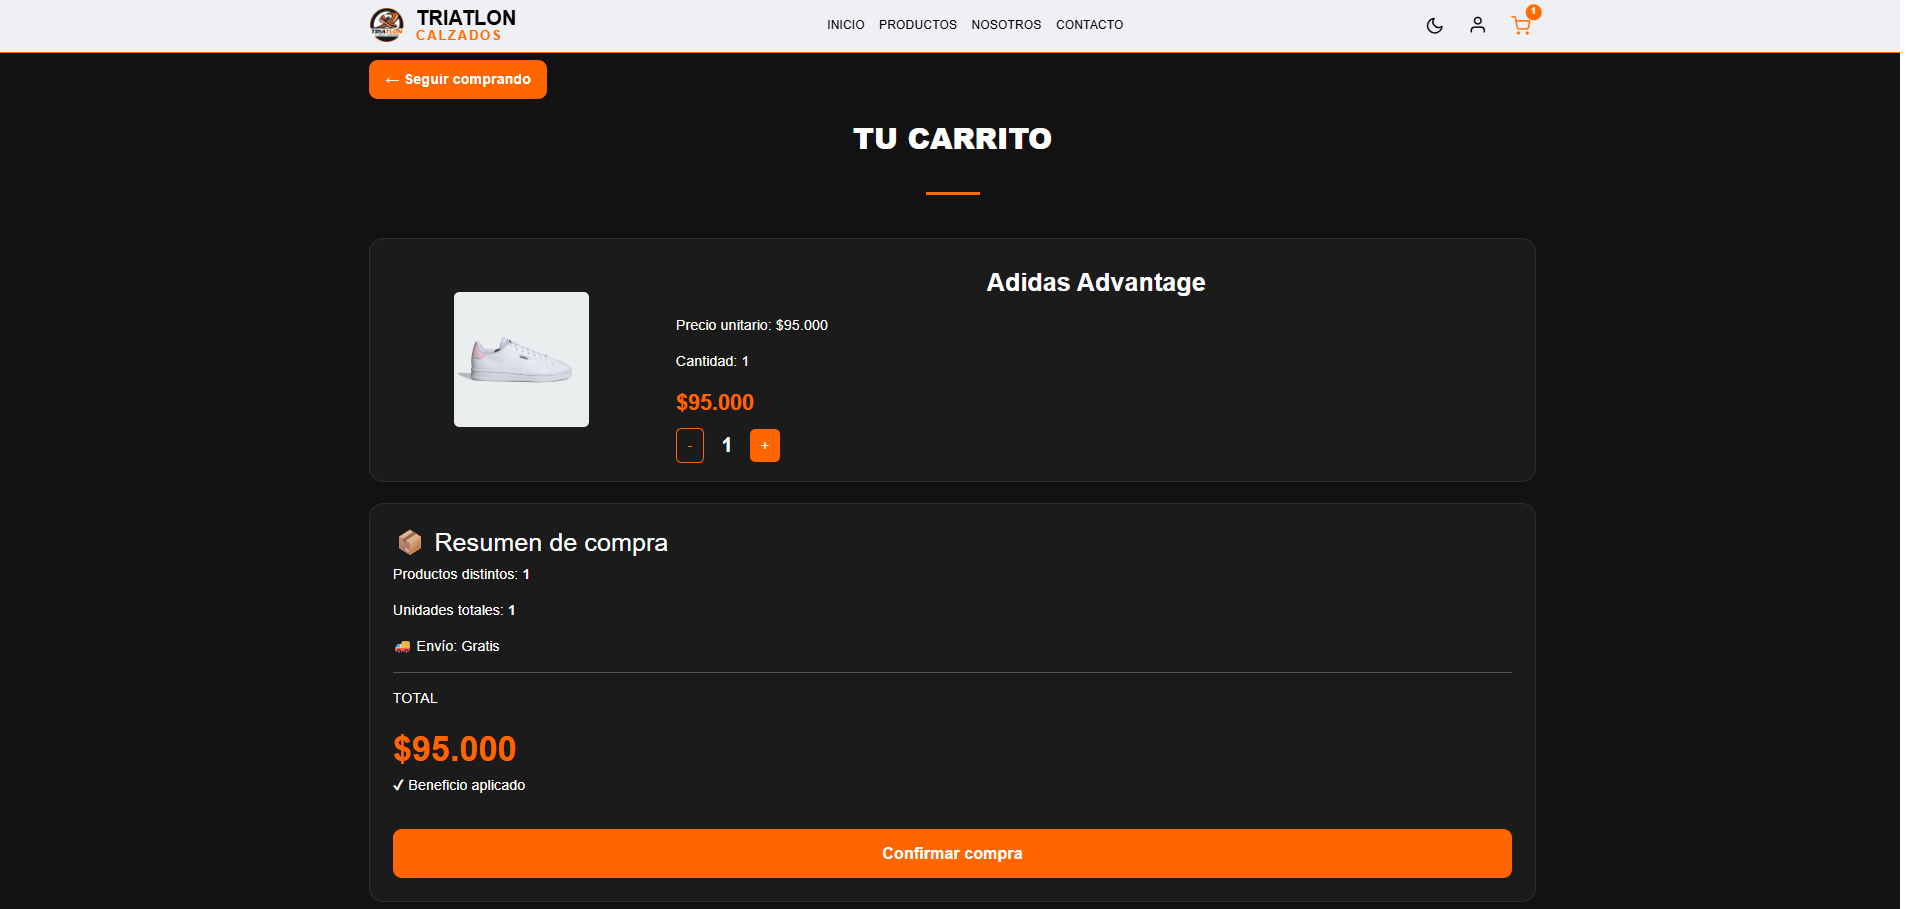
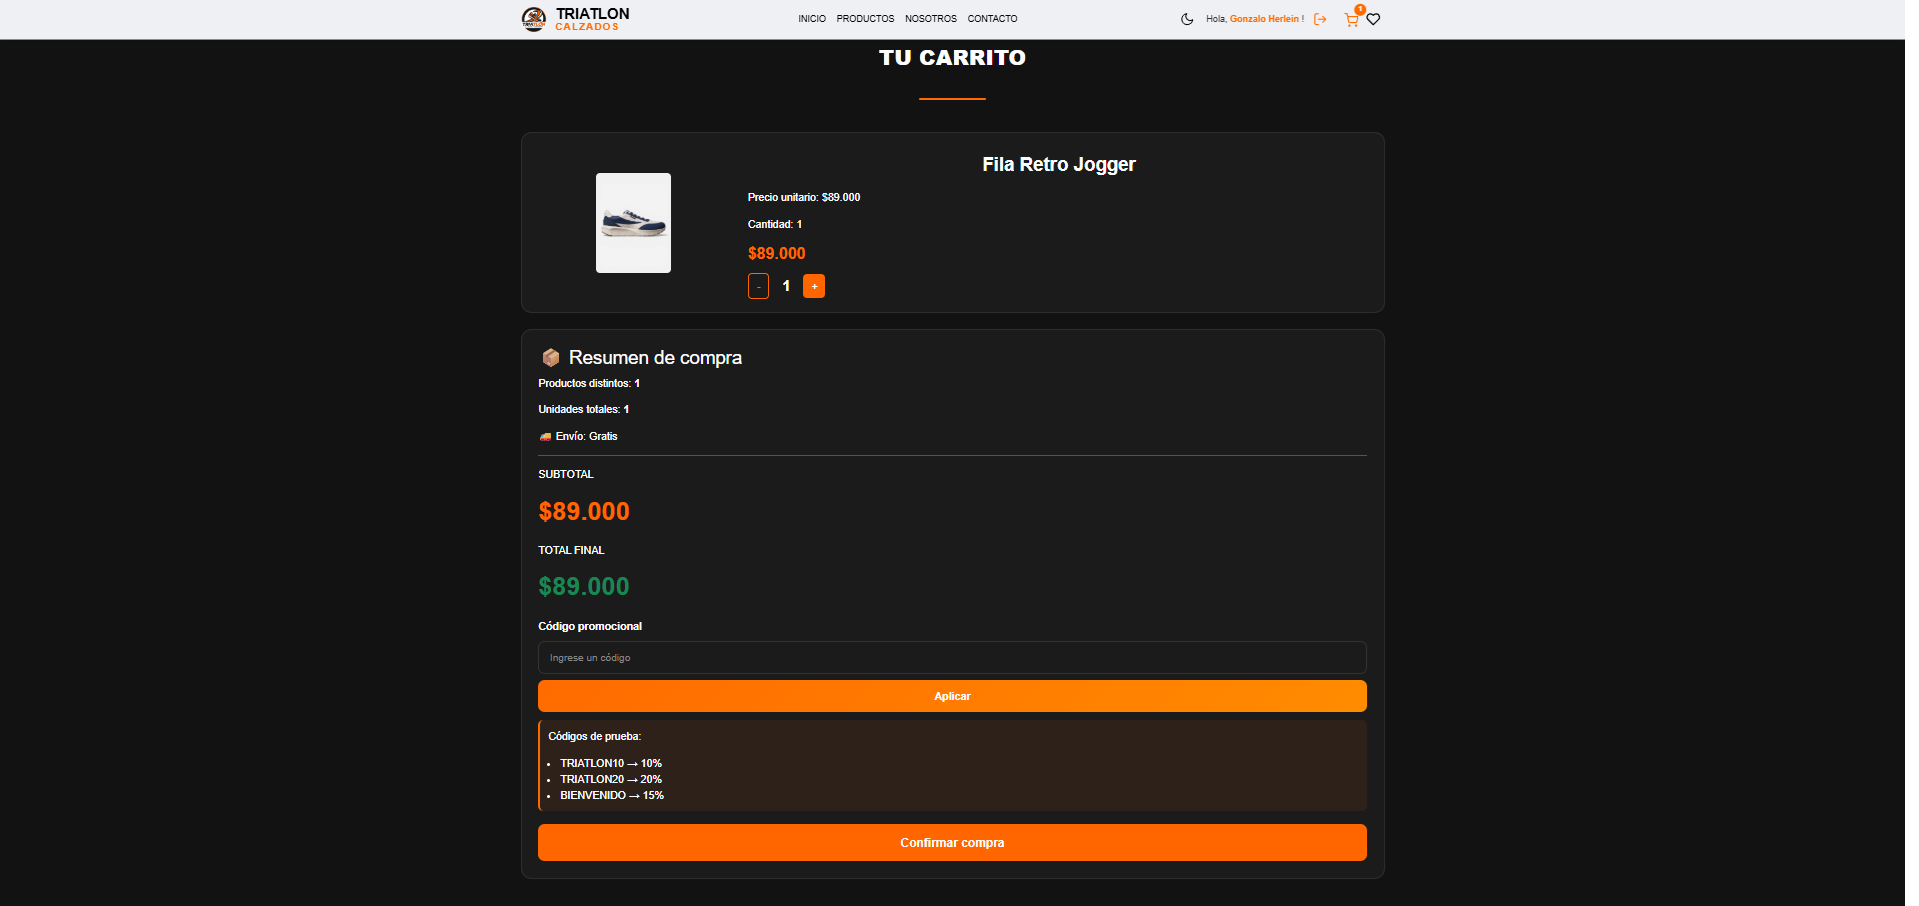
feat: el envio ahora tiene un monto variable, capturas de favoritos añadidos

diff --git a/tienda_zapatillas/src/pages/Cart.jsx b/tienda_zapatillas/src/pages/Cart.jsx
@@ -36,9 +36,11 @@ function Cart({
     0
   );
 
+  const envio = total >= 150000 ? 0 : total * 0.05;
+
   const montoDescuento = total * (descuento / 100);
 
-  const totalFinal = total - montoDescuento;
+  const totalFinal = total - montoDescuento + envio;
   
   const aplicarCodigo = () => {
       if (promoAplicada) {
@@ -152,7 +154,7 @@ function Cart({
               <p>Unidades totales: <strong>{unidadesTotales}</strong></p>
 
               <p>
-                🚚 Envío: <span className="free-shipping">Gratis</span>
+                🚚 Envío: <span className="free-shipping">{envio === 0 ? "Gratis" : `$${envio.toLocaleString("es-AR")}` }</span>
               </p>
 
               <hr />

diff --git a/README.md b/README.md
@@ -77,6 +77,10 @@ http://localhost:5173
 ![Detalle](tienda_zapatillas/screenshots/detalleProducto1.png)
 ![Detalle](tienda_zapatillas/screenshots/detalleProducto2.png)
 
+### Favoritos
+![Favoritos](tienda_zapatillas/screenshots/favoritos1.png)
+![Favoritos](tienda_zapatillas/screenshots/favoritos2.png)
+
 ### Carrito
 ![Carrito](tienda_zapatillas/screenshots/carrito.png)
 